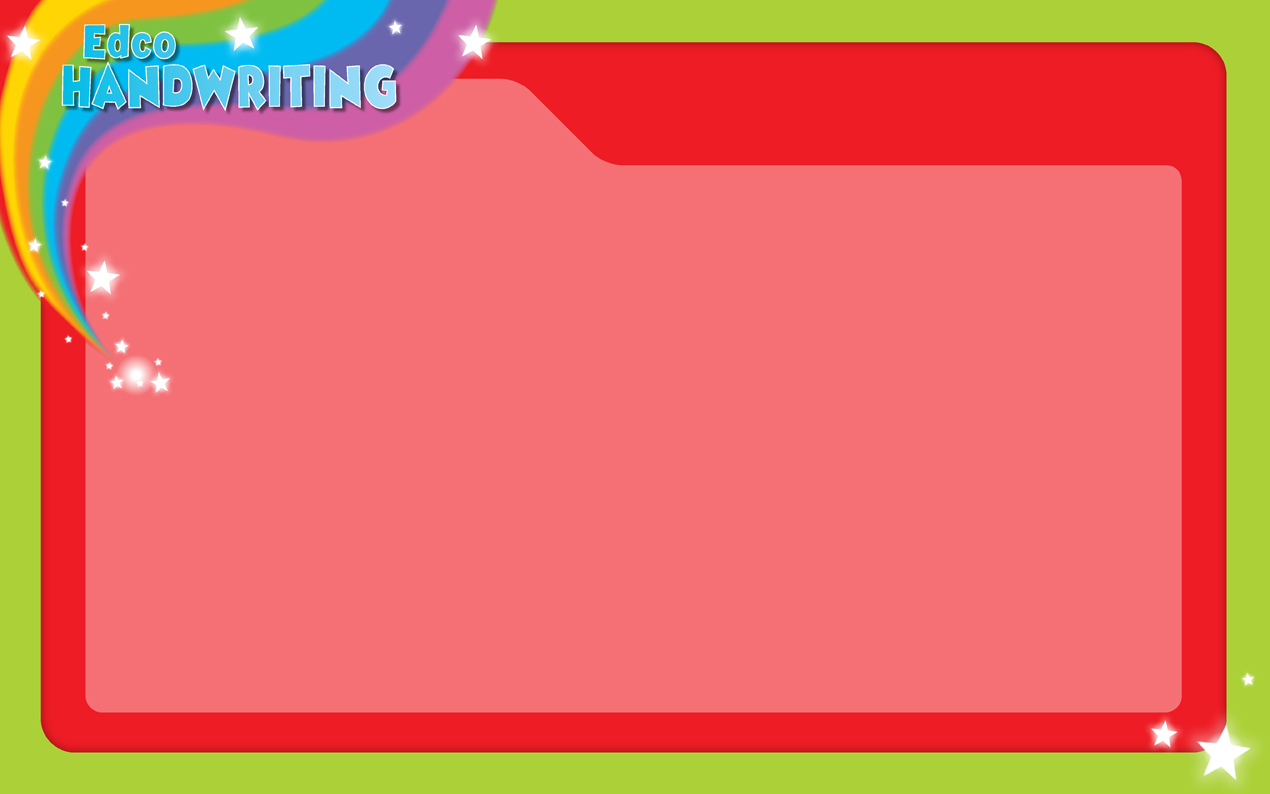
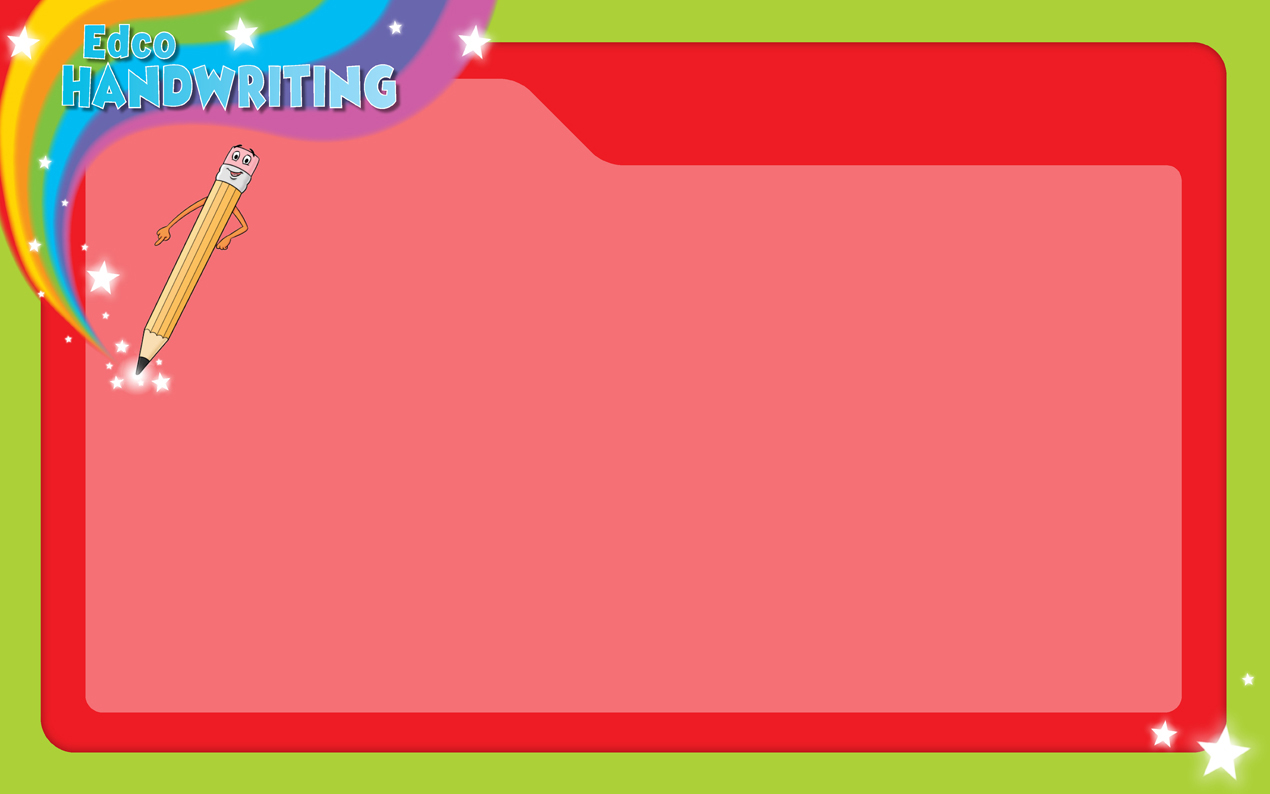
images added/updated

Changed region(s): [[0.0921, 0.1814, 0.215, 0.4836]]

diff --git a/sample/public/assets/Game/scripts/scripts.1a81f4be.js b/sample/public/assets/Game/scripts/scripts.1a81f4be.js
@@ -1269,6 +1269,12 @@
         ($("#restart-btn").on("click", function(){
           e.resetGame();
         })),
+        ($("#cancel-btn").on("click", function(){
+          e.cancleHandler();
+        })),
+        (e.cancleHandler = function(){
+          $("#msg-ovelay").addClass("hidden");
+        }),
 
         (e.resetGame = function(){
           e.totalCorrectAns = 0;

diff --git a/sample/src/components/activity.css b/sample/src/components/activity.css
@@ -26,7 +26,7 @@
 }
 .pencile-image {
   position: absolute;
-  top: 145px;
+  top: 149px;
   left: 130px;
   width: 131px;
 }
